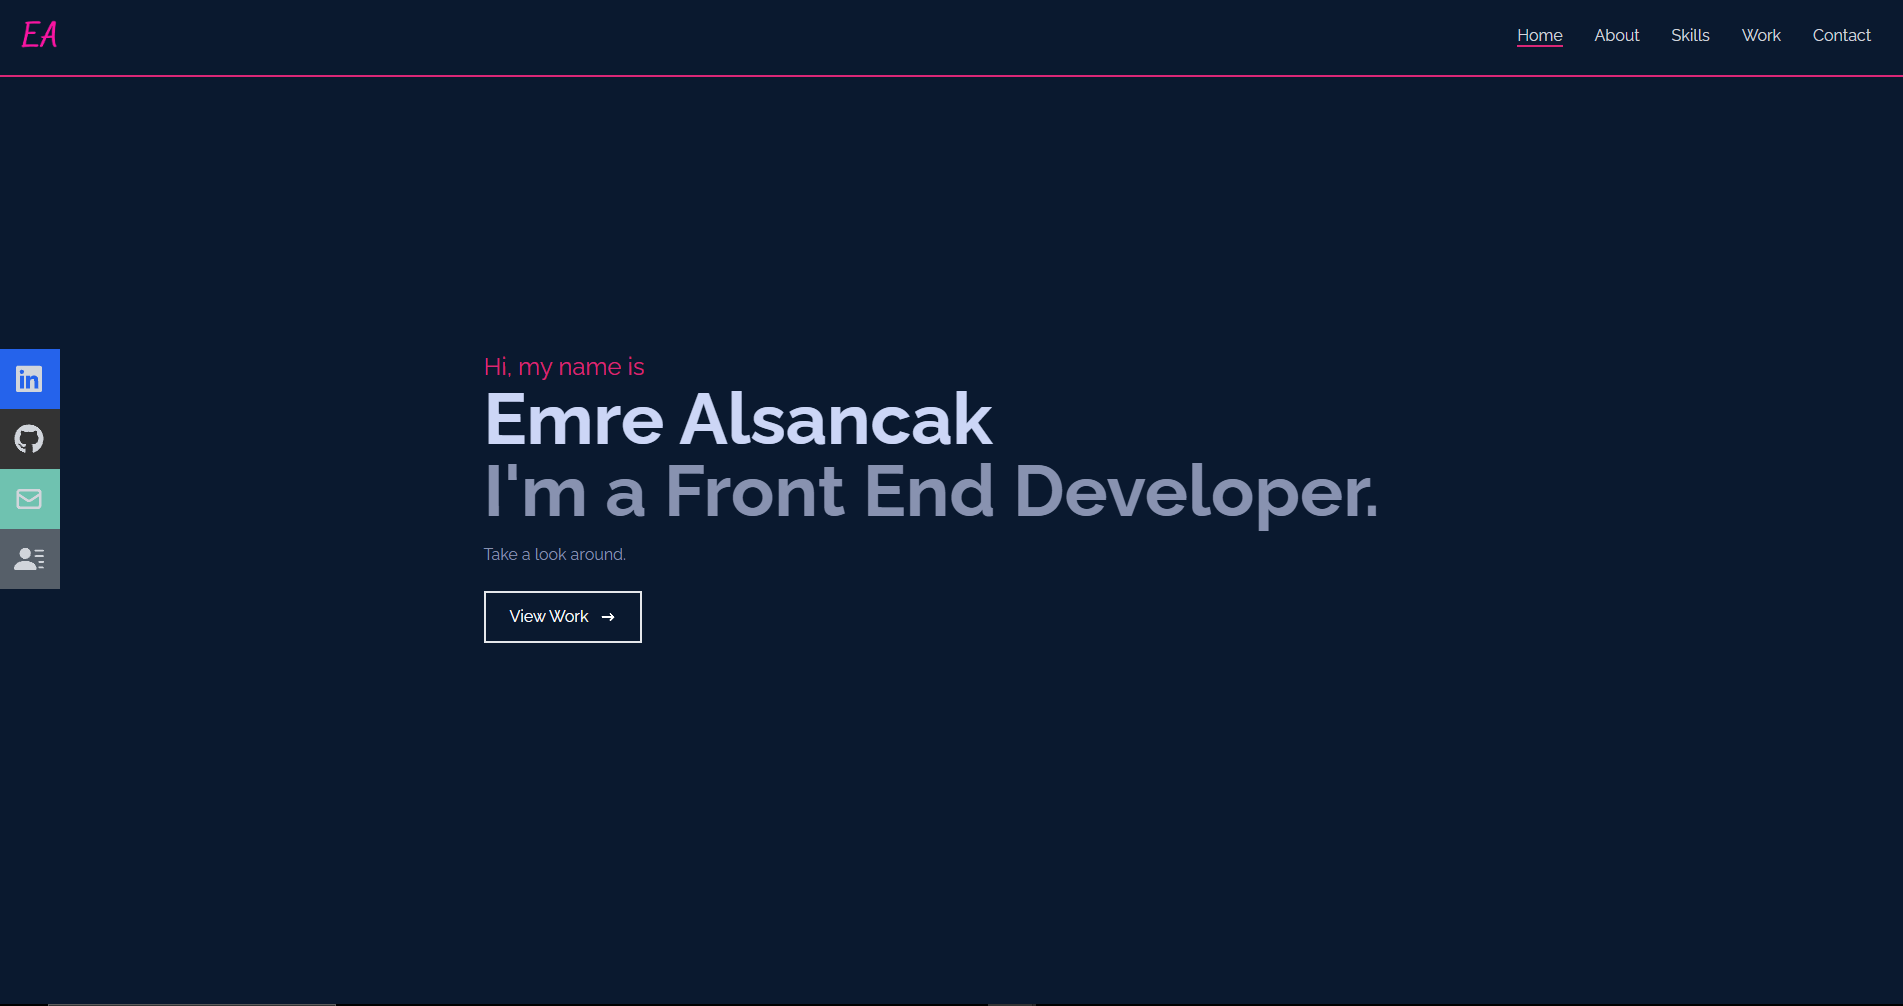
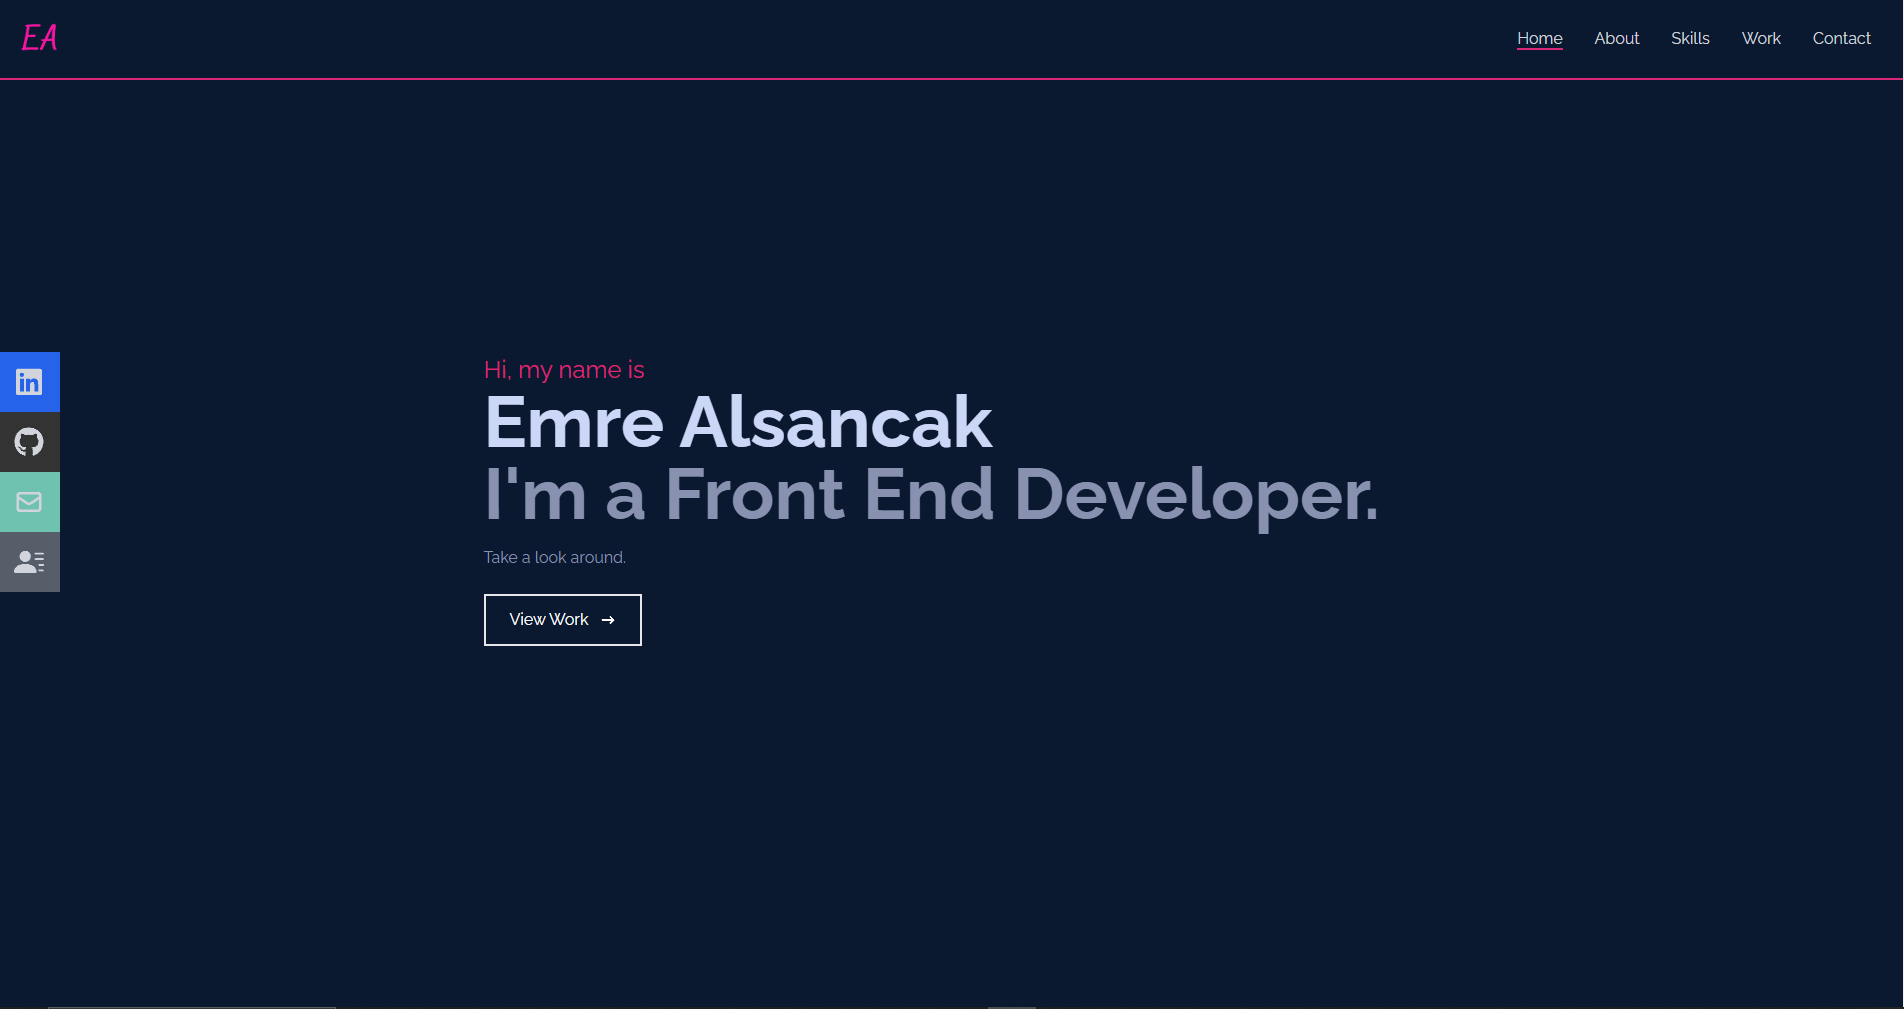
commit

diff --git a/styles.css b/styles.css
@@ -47,7 +47,16 @@ body {
 
 section {
   min-height: 100vh;
-  padding: 10rem 9% 2rem;
+  padding: 10rem 9%;
+}
+
+.more-on a {
+  box-shadow: 0px 10px 14px -5px rgba(73, 173, 255, 0.75);
+  transition: all 0.5s;
+}
+
+.more-on a:hover {
+  box-shadow: 0px 10px 14px -3px var(--main-color);
 }
 
 .header {
@@ -100,23 +109,6 @@ section {
   justify-content: center;
   align-items: center;
   gap: 5rem;
-}
-
-.home-img img {
-  width: 35vw;
-  animation: floatImage 4s ease-in-out infinite;
-}
-
-@keyframes floatImage {
-  0% {
-    transform: translateY(0);
-  }
-  50% {
-    transform: translateY(-2.4rem);
-  }
-  100% {
-    transform: translateY(0);
-  }
 }
 
 .home-content h3 {
@@ -293,22 +285,24 @@ span {
 .projects-container {
   display: grid;
   grid-template-columns: repeat(3, 1fr);
-  align-items: center;
+  place-items: center;
   gap: 2.5rem;
 }
 
 .projects-container .projects-box {
-  width: 90%;
-  height: 90%;
+  width: 85%;
+  height: 23rem;
   border-radius: 2rem;
   box-shadow: 0 0 1rem var(--bg-color);
   overflow: hidden;
   display: flex;
+  position: relative;
 }
 
 .projects-box img {
   object-fit: cover;
   width: 100%;
+  height: 100%;
   opacity: 0.5;
   transition: 0.5s ease;
 }
@@ -545,6 +539,9 @@ textarea::placeholder {
 }
 
 @media (max-width: 1200px) {
+  section {
+    padding: 8rem 5%;
+  }
   html {
     font-size: 55%;
   }
@@ -569,6 +566,10 @@ textarea::placeholder {
 
   .projects {
     padding-bottom: 7rem;
+  }
+
+  .projects-layer h4 {
+    font-size: 2.5rem;
   }
 
   .contact {
@@ -602,18 +603,63 @@ textarea::placeholder {
     padding: 1rem 3%;
     background: var(--bg-color);
     border-top: 0.1rem solid rgba(0, 0, 0, 0.2);
-    box-shadow: 0 0.5rem 1rem rgba(0, 0, 0, 0.2);
-    display: none;
+    box-shadow: 0px 10px 14px -5px #0ef;
+    transform: translateX(-100%);
   }
 
   .navbar.active {
-    display: block;
+    transform: translateX(0);
   }
 
   .navbar a {
     display: block;
     font-size: 2rem;
     margin: 3rem 0;
+  }
+
+  .navbar a:nth-child(1) {
+    transform: translateX(-100%);
+    transition: transform 0.1s ease;
+  }
+
+  .navbar a:nth-child(2) {
+    transform: translateX(-100%);
+    transition: transform 0.2s ease;
+  }
+
+  .navbar a:nth-child(3) {
+    transform: translateX(-100%);
+    transition: transform 0.3s ease;
+  }
+
+  .navbar a:nth-child(4) {
+    transform: translateX(-100%);
+    transition: transform 0.4s ease;
+  }
+
+  .navbar a:nth-child(5) {
+    transform: translateX(-100%);
+    transition: transform 0.5s ease;
+  }
+
+  .navbar.active a:nth-child(1) {
+    transform: translateX(0);
+  }
+
+  .navbar.active a:nth-child(2) {
+    transform: translateX(0);
+  }
+
+  .navbar.active a:nth-child(3) {
+    transform: translateX(0);
+  }
+
+  .navbar.active a:nth-child(4) {
+    transform: translateX(0);
+  }
+
+  .navbar.active a:nth-child(5) {
+    transform: translateX(0);
   }
 
   .home {
@@ -635,6 +681,10 @@ textarea::placeholder {
 
   .about {
     flex-direction: column-reverse;
+  }
+
+  .board {
+    margin-top: -30rem;
   }
 
   .services h2 {

diff --git a/script.js b/script.js
@@ -5,8 +5,9 @@ import HTML from "./img/html.png";
 import JS from "./img/javascript.png";
 import TWIND from "./img/tailwind.png";
 import REACT from "./img/react.png";
+import SCSS from "./img/scss.png";
 
-const SKILLS = [HTML, CSS, JS, REACT, TWIND, GIT];
+const SKILLS = [HTML, CSS, JS, REACT, TWIND, GIT, SCSS];
 
 const sections = document.querySelectorAll("section");
 const nav = document.querySelectorAll("header nav a");
@@ -21,10 +22,14 @@ const contactName = document.getElementById("contactName");
 const contactEmail = document.getElementById("contactEmail");
 const contactMessage = document.getElementById("contactMessage");
 
-menuIcon.onclick = () => {
+menuIcon.addEventListener("click", () => {
   menuIcon.classList.toggle("bx-x");
   navbar.classList.toggle("active");
-};
+
+  navbar.querySelectorAll(".nav-link").forEach((item) => {
+    item.classList.toggle("slide-in");
+  });
+});
 
 window.onscroll = () => {
   sections.forEach((sec) => {
@@ -120,14 +125,14 @@ ScrollReveal().reveal(".heading, #skills-1, #skills-3, #item-2, .board", {
   origin: "top",
 });
 ScrollReveal().reveal(
-  ".services-container, .contact form, #item-5, #skills-2, #skills-4, #contactMessage, .social-media, .scroll-reveal-div, .about-content p",
+  ".services-container, .contact form, #item-5, #skills-2, #skills-4, #skills-6, #contactMessage, .social-media, .scroll-reveal-div, .about-content p",
   { origin: "bottom" },
 );
 ScrollReveal().reveal(
-  ".home-content h1, .home-content p, #item-1, #item-4, #skills-0, #contactName, .linkedIn, .about-content h3",
+  ".home-content h1, .home-content p, #item-1, #item-4, #item-7, #skills-0, #contactName, .linkedIn, .about-content h3",
   { origin: "left" },
 );
 ScrollReveal().reveal(
-  ".about-content .heading, #item-3, #item-6, #item-9, #skills-5, #contactEmail, .more-on, #item-6, .home-content h3, .main-git",
+  ".about-content .heading, #item-3, #item-6, #skills-5, #contactEmail, .more-on, #item-6, .home-content h3, .main-git",
   { origin: "right" },
 );

diff --git a/index.html b/index.html
@@ -36,11 +36,11 @@
       <i class="bx bx-menu" id="menu-icon"></i>
 
       <nav class="navbar">
-        <a href="#home" class="active">Home</a>
-        <a href="#about">About</a>
-        <a href="#skills">Skills</a>
-        <a href="#projects">Projects</a>
-        <a href="#contact">Contact</a>
+        <a class="nav-link" href="#home" class="active">Home</a>
+        <a class="nav-link" href="#about">About</a>
+        <a class="nav-link" href="#skills">Skills</a>
+        <a class="nav-link" href="#projects">Projects</a>
+        <a class="nav-link" href="#contact">Contact</a>
       </nav>
     </header>
 
@@ -134,7 +134,7 @@
         <div data-projects-box class="projects-box">
           <img data-projects-img />
           <div class="projects-layer">
-            <h4 data-project-title>Web Design</h4>
+            <h4 data-project-title></h4>
             <p data-project-text></p>
             <div class="projects-link-div">
               <a data-project-link href="#"
@@ -143,7 +143,6 @@
               <a data-github-link href="#"><i class="bx bxl-github"></i></a>
             </div>
           </div>
-          <!-- <h1>More on <i class="bx bxl-github"></i></h1> -->
         </div>
       </template>
 

diff --git a/data.js b/data.js
@@ -4,6 +4,7 @@ import math from "./img/math.png";
 import portfolio from "./img/portfolio.png";
 import education from "./img/education.png";
 import ecommerce from "./img/react-e-commerce.png";
+import jsShop from "./img/js-shop.png";
 
 const data = [
   {
@@ -59,7 +60,7 @@ const data = [
     id: 7,
     title: "JavaScript",
     name: "JS Shopping Cart",
-    img: portfolio,
+    img: jsShop,
     demoLink: "https://vanillajs-shop-cart.netlify.app/",
     gitLink: "https://github.com/ealsa/js-shopping-cart",
   },
